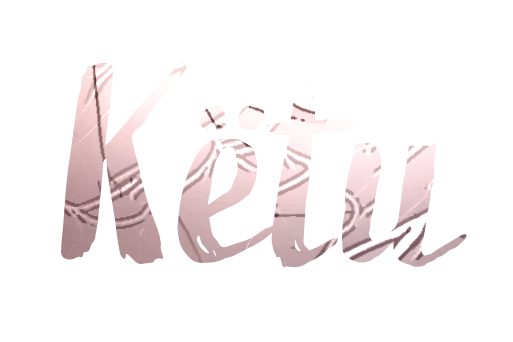
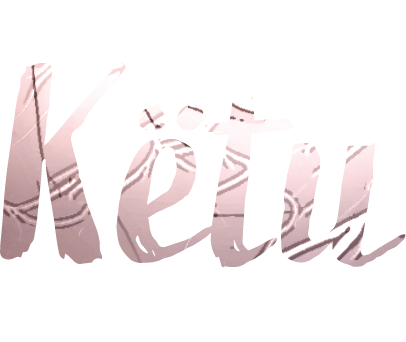
Updating for "Hello"

diff --git a/index.html b/index.html
@@ -30,20 +30,23 @@ body {
     <div class="rightcontent w-col w-col-6 w-col-stack">
       <div data-w-id="3fd5aeb3-22da-ed60-7286-0d11f16597d3" style="opacity:0" class="content">
     <!--  <h1 class="tagline"><strong class="bold-text">Këtu</strong></h1> -->
-		  <p class="bio"><img src="images/ketu.png" width="25%" height="100%" alt="këtu" /></p>
+		  <p class="bio"><img src="images/ketu.png" width="15%" height="100%" alt="këtu" /></p>
 <!--<div class="name">Portland. Kosovo. Other places.</div> --> 
-        <p class="bio">
+ <!---     <p class="bio">
 	<em>
-            "Këtu" means to be here.
-		  	
-			To be present.</em>
-		  </p>
-          
-			 <!--<div class="name">Music coming soon</div>-->
+            Presence and here-ness.</em>
+		  </p> -->  
+          <p><em>here-ness.</em><br><br></p>
+          <hr><br><br>
 
-            <!-- <a href="#">Fusce</a> viverra <a href="#" class="bio-links">luctus urna</a> ac rutrum. -->
-        
-<p><iframe width="560" height="315" src="https://www.youtube-nocookie.com/embed/pexX7Bu47QE" title="YouTube video player" frameborder="0" allow="accelerometer; autoplay; clipboard-write; encrypted-media; gyroscope; picture-in-picture; web-share" allowfullscreen></iframe></p>
+			 <!--<div class="name">Music coming soon</div>-->
+<p>
+       <!--      <a href="#">Fusce</a> viverra <a href="#" class="bio-links">luctus urna</a> ac rutrum. </p>-->
+        <div class="name">Këtu – Hello</div>
+            <p><iframe width="560" height="315" src="https://www.youtube-nocookie.com/embed/v6DDNm05aBQ" title="YouTube video player" frameborder="0" allow="accelerometer; autoplay; clipboard-write; encrypted-media; gyroscope; picture-in-picture; web-share" allowfullscreen></iframe></p>
+            <br><br>
+            <div class="name">Këtu – Different Dreams</div>
+            <p><iframe width="560" height="315" src="https://www.youtube-nocookie.com/embed/pexX7Bu47QE" title="YouTube video player" frameborder="0" allow="accelerometer; autoplay; clipboard-write; encrypted-media; gyroscope; picture-in-picture; web-share" allowfullscreen></iframe></p>
 		  
 	
 		  
@@ -63,28 +66,28 @@ body {
        
         <p class="bio">&nbsp;</p>
 <div class="links w-row">
-        <div class="column w-col w-col-4">
+      <!--  <div class="column w-col w-col-4">
             <div class="text-block-2">Connect</div>
             <ul role="list" class="list w-list-unstyled">
               <li>
                 <a href="mailto:hello@ketu.live">Email</a>
               </li>
               <li>
-                <a href="https://www.youtube.com/@ketu-">YouTube</a>
-              </li>
-              <li>
-               <!-- <a href="#">Spotify (coming soon) </a> -->
+               
               </li>
             </ul>
-      </div>
+      </div> -->
           <div class="column-2 w-col w-col-4">
             <div class="text-block-2">social</div>
             <ul role="list" class="list w-list-unstyled">
               <li>
+                <a href="https://www.instagram.com/ketu.music/">Instagram</a>
+              </li>
+              <li>
                 <a href="https://www.facebook.com/ketu.is.here">Facebook</a>
               </li>
               <li>
-                <a href="https://www.instagram.com/ketu.music/">Instagram</a>
+                <a href="https://tiktok.com/@ketu.music">TikTok</a>
               </li>
               <li>
                 <a href="#"></a>
@@ -99,6 +102,9 @@ body {
               </li>
               <li>
                 <a href="https://music.apple.com/us/artist/k%C3%ABtu/1672899907">Apple Music</a>
+              </li>
+              <li>
+                <a href="https://www.youtube.com/@ketu-">YouTube</a>
               </li>
               <li>
                 <a href="#"></a>

diff --git a/css/webflow.css b/css/webflow.css
@@ -52,7 +52,7 @@ body {
   font-family: Arial, sans-serif;
   font-size: 14px;
   line-height: 20px;
-  color: #333;
+  color: #848d96;
 }
 img {
   max-width: 100%;

diff --git a/css/split-opl.webflow.css b/css/split-opl.webflow.css
@@ -56,7 +56,7 @@ a {
 }
 
 .bio {
-  margin-bottom: 40px;
+ /* margin-bottom: 40px; */
   font-family: Lora, sans-serif;
   color: #848d96;
   font-size: 21px;
